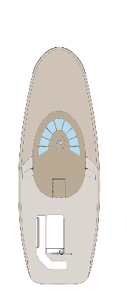
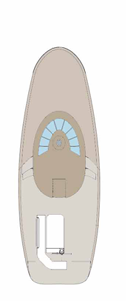
Add files via upload

diff --git a/index.html b/index.html
@@ -43,7 +43,7 @@
     <div class="page-scale-wrap mq-none mq-default" data-layout-name="undefined" style="width:1372px;height:970px;">
       <div id="item1085" class="pageItem" alt="Rectangle">&nbsp;</div>
       <div id="item1086" class="pageItem" alt="Rectangle">&nbsp;</div>
-      <img src="assets/images/blank.gif" class="pageItem" alt="Rectangle" style="width:224px !important;height:140px !important;left:199px !important;top:716px !important;" id="item345" data-src="assets/images/9.jpg"/>
+      <img src="assets/images/blank.gif" class="pageItem" alt="Rectangle" style="width:224px !important;height:140px !important;left:199px !important;top:716px !important;" id="item345" data-src="assets/images/9-C.jpg"/>
       <img src="assets/images/blank.gif" class="pageItem" alt="Rectangle" style="left:20px !important;top:530px !important;" id="item354" data-src="assets/images/item_354.png"/>
       <img src="assets/images/blank.gif" class="pageItem" alt="Rectangle" style="left:424px !important;top:530px !important;" id="item361" data-src="assets/images/item_361.png"/>
       <img src="assets/images/blank.gif" class="pageItem" alt="Rectangle" style="left:889px !important;top:484px !important;" id="item370" data-src="assets/images/item_370.png"/>
@@ -73,6 +73,7 @@
       <img src="assets/images/blank.gif" class="pageItem" alt="Rectangle" style="left:1100px !important;top:397px !important;" id="item643" data-src="assets/images/item_643.png"/>
       <img src="assets/images/blank.gif" class="pageItem" alt="Rectangle" style="left:969px !important;top:423px !important;" id="item650" data-src="assets/images/item_650.png"/>
       <img src="assets/images/blank.gif" class="pageItem" alt="Rectangle" style="left:889px !important;top:20px !important;" id="item653" data-src="assets/images/item_653.png"/>
+      <img src="assets/images/blank.gif" class="pageItem" alt="Rectangle" style="left:1606px !important;top:101px !important;" id="item1326" data-src="assets/images/item_1326.png"/>
       <img src="assets/images/blank.gif" class="pageItem" alt="Rectangle" style="left:406px !important;top:20px !important;" id="item659" data-src="assets/images/item_659.png"/>
       <img src="assets/images/blank.gif" class="pageItem" alt="Rectangle" style="left:591px !important;top:20px !important;" id="item665" data-src="assets/images/item_665.png"/>
       <img src="assets/images/blank.gif" class="pageItem" alt="Rectangle" style="left:737px !important;top:20px !important;" id="item673" data-src="assets/images/item_673.png"/>
